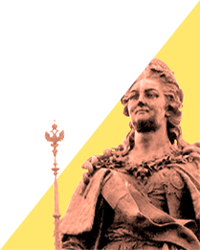
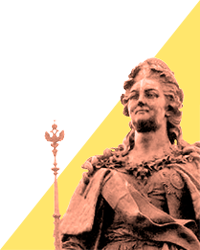
hover mid part draft.

Changed region(s): [[0.6, 0.224, 0.78, 0.392], [0.51, 0.672, 0.54, 0.7]]

diff --git a/css/style.css b/css/style.css
@@ -245,7 +245,7 @@ nav.to-book:hover{
 }
 .mid-part{
 
-	overflow: hidden;
+
 	position: relative;
 }
 .up-part div,.mid-part div,.bot-part div{
@@ -306,12 +306,21 @@ nav.to-book:hover{
 	left: 1000px;
 }
 
-
+/*.mid-part{*/
+	/*border:1px solid white;*/
+/*}*/
+/*.triangle:hover{*/
+	/*border:1px solid white;*/
+/*}*/
+/*.triangle:hover:after{*/
+	/*border:1px solid red;*/
+/*}*/
 .one-mid{
 	background: url(/img/route/atlant.png);
 	left: 0;
 }
 .one-mid:hover{
+	position: absolute;
 	background: url(/img/route/hover/atlant.png);
 	left: 0;
 	top:-41px;
@@ -333,8 +342,10 @@ nav.to-book:hover{
 	z-index:-1;
 }
 .two-mid:hover:after{
-	/*left:-5px;*/
-	top:-20px;
+	position: absolute;
+	transform: skewX(-141deg);
+	left:83px;
+	top:-15px;
 	background: url(/img/route/hover/anichkov-bridge.png);
 	width:205px!important;
 	height:254px!important;
@@ -353,6 +364,11 @@ nav.to-book:hover{
 	height: 100%;
 	z-index:-1;
 }
+.three-mid:hover:after{
+	position: absolute;
+	transform: skewX(-141deg);
+	background: url(/img/route/hover/zingers-house.png);
+}
 .four-mid{
 	left:-100px;
 	transform: skew(39deg);
@@ -366,6 +382,11 @@ nav.to-book:hover{
 	height: 100%;
 	z-index:-1;
 }
+.four-mid:hover:after{
+	position: absolute;
+	transform: skewX(-39deg);
+	background: url(/img/route/hover/krylov.png);
+}
 .five-mid{
 	left:100px;
 	transform: skew(39deg);
@@ -378,6 +399,17 @@ nav.to-book:hover{
 	left:-100px;
 	width: 100%;
 	height: 100%;
+	z-index:-1;
+}
+.five-mid:hover:after{
+	content: "";
+	transform: skew(-39deg);
+	background: url(/img/route/hover/michaels-horse.png);
+	position: absolute;
+	left:-85px;
+	top:-31px;
+	width: 100%;
+	height: 274px!important;
 	z-index:-1;
 }
 .six-mid{
@@ -416,6 +448,12 @@ nav.to-book:hover{
 	height: 100%;
 	z-index:-1;
 }
+.seven-mid:hover:after{
+	position: absolute;
+	transform: skewX(-141deg);
+	left:-100px;
+	background: url(/img/route/hover/kathrine.png);
+}
 .eight-mid{
 	left:-100px;
 	transform: skew(39deg);
@@ -428,6 +466,12 @@ nav.to-book:hover{
 	width: 100%;
 	height: 100%;
 	z-index:-1;
+}
+.eight-mid:hover:after{
+	content: "";
+	transform: skew(-39deg);
+	background: url(/img/route/hover/kazansky.png);
+	position: absolute;
 }
 .nine-mid{
 	left:100px;
@@ -443,11 +487,25 @@ nav.to-book:hover{
 	height: 100%;
 	z-index:-1;
 }
+.nine-mid:hover:after{
+	transform: skew(-39deg);
+	background: url(/img/route/hover/alex-the-II.png);
+	position: absolute;
+	left:-85px;
+	top:-30px;
+	width: 100%;
+	height: 270px!important;
+	z-index:-1;
+}
 .ten-mid{
 	background: url(/img/route/piter-the-woodwoker.png);
 	left: 0;
 }
-
+.ten-mid:hover{
+	position: absolute;
+	background: url(/img/route/hover/piter-the-woodwoker.png);
+	left: 0;
+}
 .one-bot{
 	background: url(/img/route/spas-on-blood.png);
 	left: 200px;

diff --git a/js/app.js b/js/app.js
@@ -8,9 +8,9 @@ $('.diagonal-box-1,.diagonal-box-2,.diagonal-box-3,.diagonal-box-4').css('transf
 
 $('.up-part div,.mid-part div,.bot-part div').each(function () {
 	$(this).on("mouseenter", function() {
-		$(this).css({'opacity':'1'});
+		$(this).css({'opacity':'1','overflow':'visible'});
 	}).on('mouseleave', function() {
-		$(this).css({'opacity': '.1'});
+		$(this).css({'opacity': '.1','overflow':'hidden'});
 	});
 });
 $('.triangle').click(function () {
